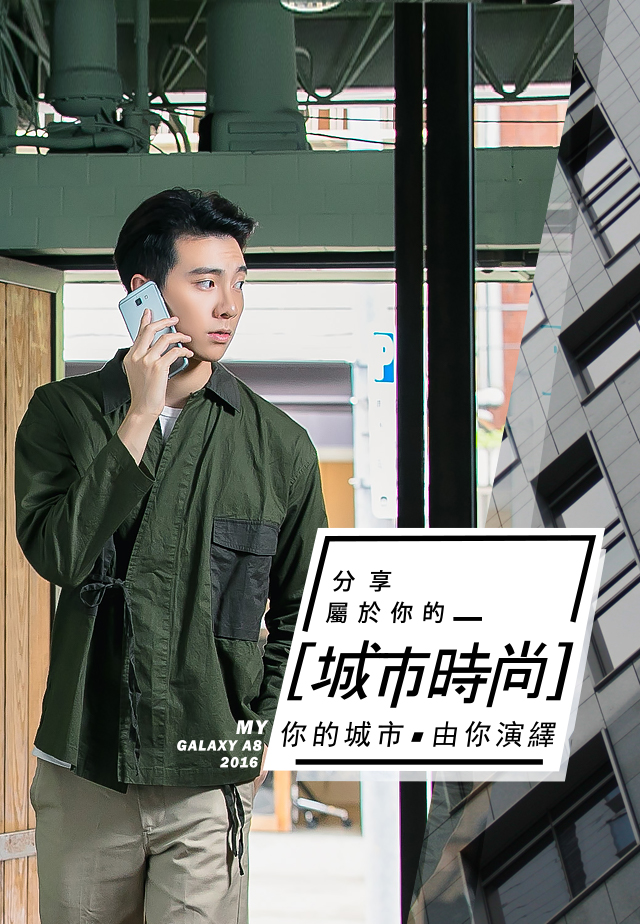
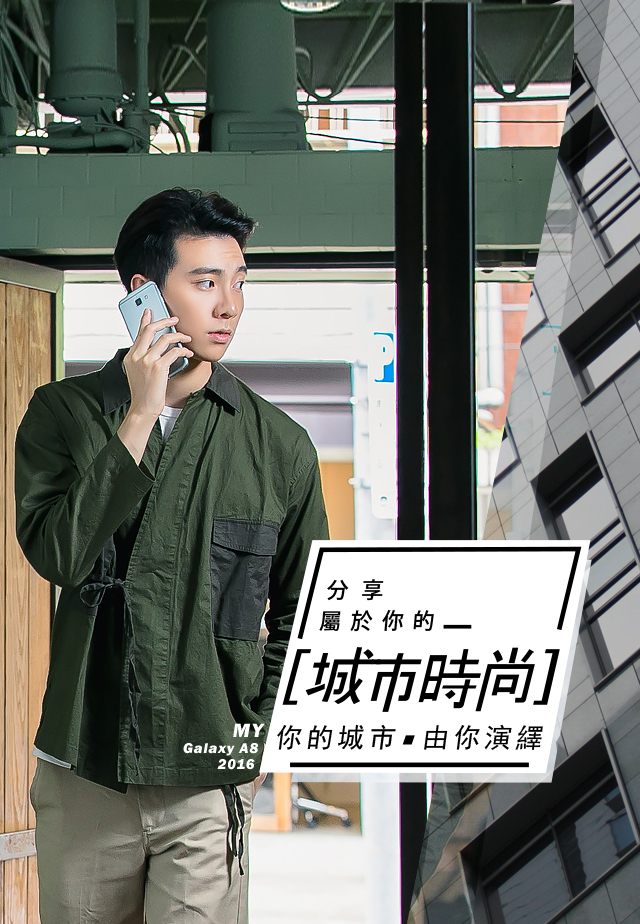
換主視覺圖

Changed region(s): [[0.2812, 0.5455, 0.9688, 0.8485]]

diff --git a/scss/custom.scss b/scss/custom.scss
@@ -52,11 +52,11 @@
             //background-position: center top;
             @media screen and (min-width: $tablet_portrait_min_w) and (max-width: $tablet_portrait_max_w) {
                 //平板－主視覺圖片
-                background-image: url('../img/visual_tb.png');
+                background-image: url('../img/visual_tb.jpg');
             }
             @media screen and (min-width: $pc_landscape_min_w) {
                 //桌機－主視覺圖片
-                background-image: url('../img/visual_pc.png');
+                background-image: url('../img/visual_pc.jpg');
             }
         }
         .detail {

diff --git a/css/index.css b/css/index.css
@@ -3172,13 +3172,13 @@ _:-moz-tree-row(hover), .fixedBtnCover_01 .coverWrap .main .mainWrap .item ul.sh
 
 @media screen and (min-width: 768px) and (max-width: 1023px) {
   .header_01 .headerWrap .visualBg {
-    background-image: url("../img/visual_tb.png");
+    background-image: url("../img/visual_tb.jpg");
   }
 }
 
 @media screen and (min-width: 1024px) {
   .header_01 .headerWrap .visualBg {
-    background-image: url("../img/visual_pc.png");
+    background-image: url("../img/visual_pc.jpg");
   }
 }
 
